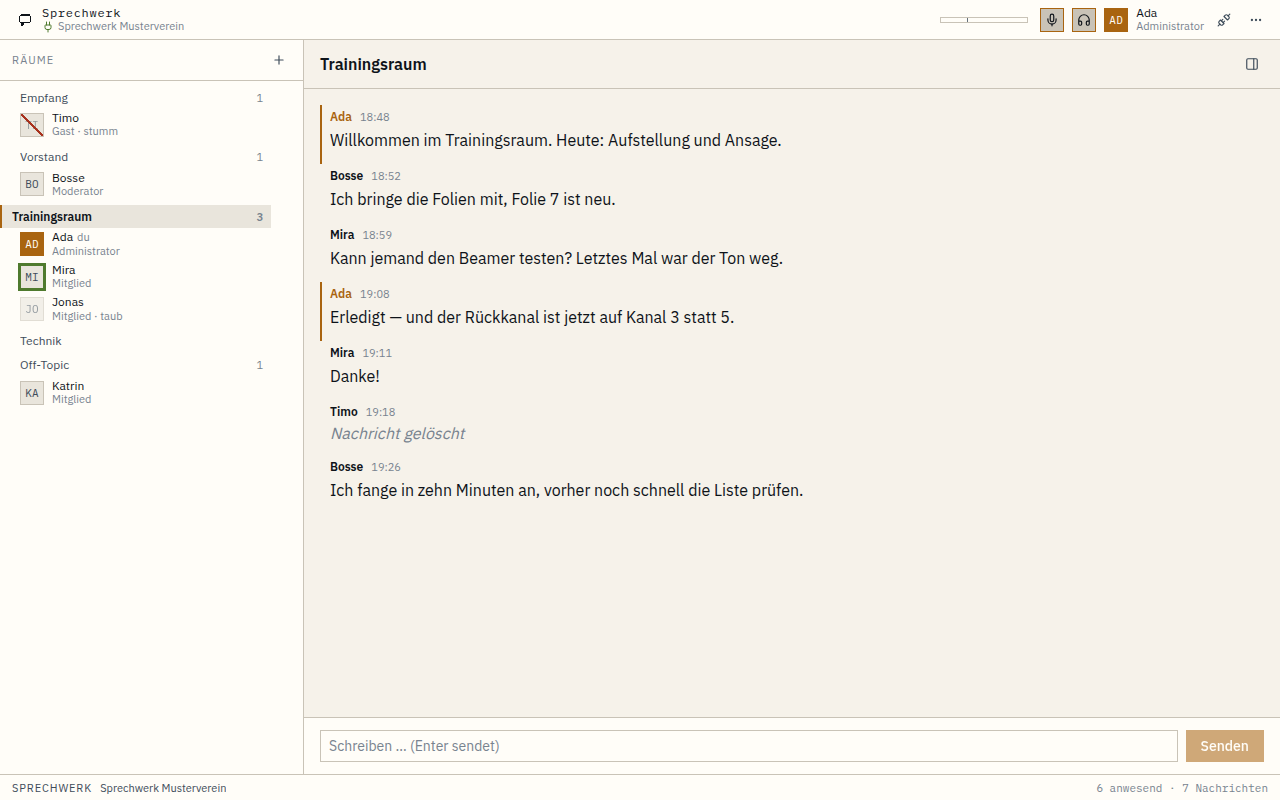
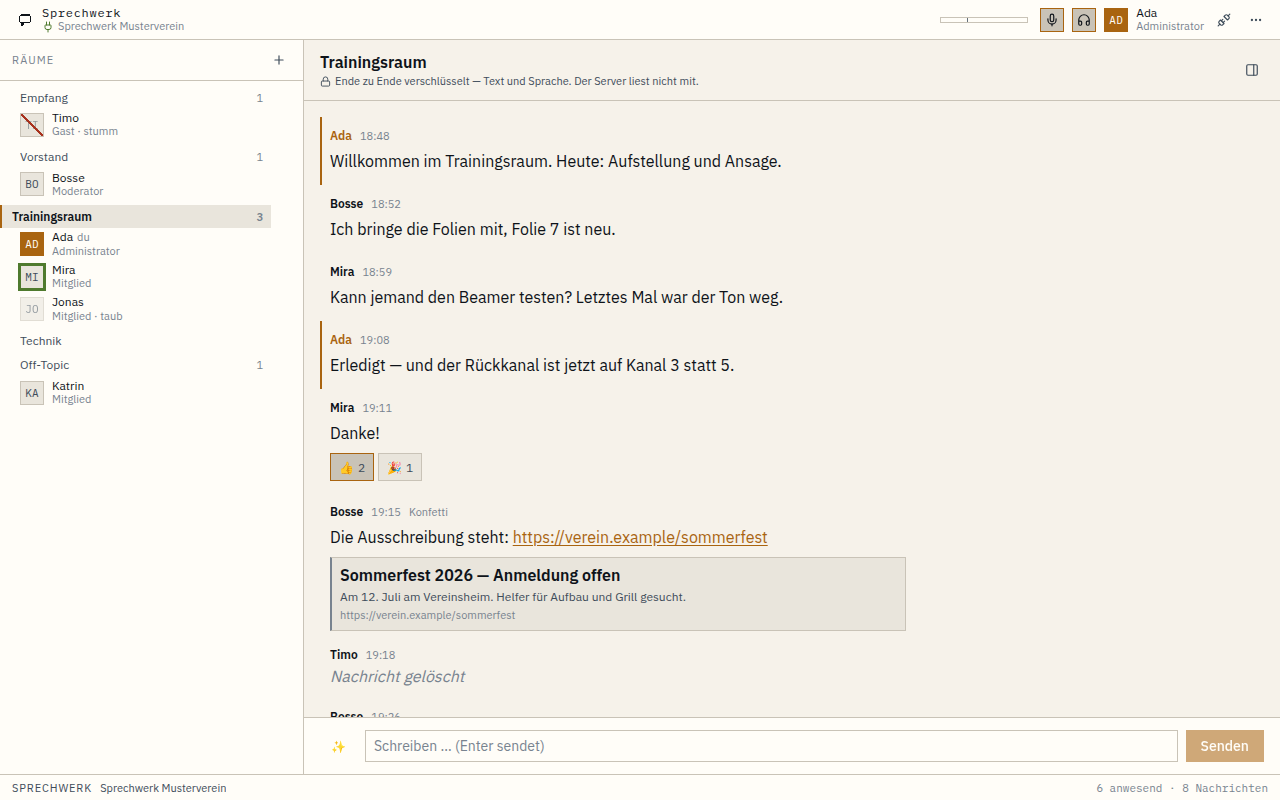
docs: ADR 0012 Stufe 2, SPEC und neue Bilder
Reaktionen, Effekte und Link-Vorschau sind beschrieben — samt Abweichung
von der ersten Planung (Felder am Text statt eigener Arten) und was der
Server weiterhin nicht sieht. Bilder für alle drei Themes neu erzeugt.

diff --git a/docs/adr/0012-alles-ende-zu-ende.md b/docs/adr/0012-alles-ende-zu-ende.md
@@ -1,15 +1,16 @@
 # ADR 0012 — Alles Ende zu Ende: Text, Sprache, Anhänge
 
-**Status:** Stufe 1 umgesetzt (2026-11-17), Stufen 2–3 geplant
+**Status:** Stufen 1 und 2 umgesetzt (2026-11-17), Stufe 3 geplant
 **Entscheidung (Nutzer, 2026-11-17):** „Das muss in sich geschlossen sein —
 wenig Sinn, die Sprache zu verschlüsseln, aber den Text nicht." Lesen dürfen
 **die Mitglieder des Servers**, nicht der Betreiber. Wer als Betreiber lesen
 will, verbindet sich mit dem Client — dann ist er Mitglied wie jeder andere.
 **Ändert:** SPEC §3 „Text bleibt serverseitig lesbar" (Nachtrag 2026-11-17),
 ADR 0006 „Nur Sprache" und „je Raum einschaltbar".
-**Betrifft:** `crates/protocol` (`geheimtext.rs`, neue Rahmen),
-`crates/adapters` (`serverschluessel.rs`), `crates/domain`, `crates/store`,
-`crates/server`, `crates/desktop`, `crates/cli`, `ui/`
+**Betrifft:** `crates/protocol` (`geheimtext.rs`, `inhalt.rs`, neue Rahmen),
+`crates/adapters` (`serverschluessel.rs`), `crates/linkvorschau` (neu, Stufe 2),
+`crates/domain`, `crates/store`, `crates/server`, `crates/ipc`,
+`crates/desktop`, `crates/cli`, `ui/`
 
 ## Was versprochen wird
 
@@ -97,15 +98,25 @@ Der Inhalt ist versioniertes JSON (`sprechwerk_protocol::inhalt::Inhalt`):
 
 | Art | Felder | Stufe |
 |---|---|---|
-| `text` | `text` | 1 |
+| `text` | `text`, optional `effekt`, optional `vorschau { url, titel, beschreibung, bild }` | 1, 2 |
 | `reaktion` | `ziel` (Nachricht), `zeichen`, `weg` | 2 |
-| `effekt` | `text`, `effekt` (z. B. Konfetti) | 2 |
-| `link` | `text`, `vorschau { url, titel, beschreibung, bild }` | 2 |
 | `anhang` | `text`, `dateien [{ id, name, typ, groesse, schluessel, pruefsumme, vorschau }]` | 3 |
 
 Eine neue Art braucht **keine** Protokolländerung — der Server sieht nur
 Geheimtext. Ein älterer Client zeigt eine unbekannte Art als „neuere Version
 nötig", statt sie falsch darzustellen.
+
+*Umgesetzt anders als zuerst geplant (Stufe 2):* Effekt und Vorschau sind
+**optionale Felder am Text**, keine eigenen Arten `effekt` und `link`. So kann
+eine Nachricht beides haben, und ein Client der Stufe 1 liest sie noch als Text
+(unbekannte Felder übergeht er) — er zeigt nur keinen Effekt und keine Karte.
+Ein unbekannter Effekt wird zu `unbekannt` und fällt weg; der Text bleibt.
+
+**Was ein Mitglied schickt, wird geprüft** (`ipc::abbilden::inhalt_abbilden`):
+ein Vorschau-Link muss `http(s)` sein, Titel und Beschreibung werden gekürzt,
+das Bild muss Base64 sein; eine Reaktion braucht eine gültige
+Nachrichtenkennung und ein kurzes Zeichen ohne Leerraum. Der Schlüssel sagt
+nur, dass ein Mitglied es geschickt hat — nicht, dass es harmlos ist.
 
 **Reaktionen** sind eigene Umschläge, die auf eine Nachricht zeigen; der Client
 fasst sie zusammen. Der Server kann sie nicht zählen — er weiß nicht, dass es
@@ -115,6 +126,33 @@ Reaktionen sind.
 Bild), packt die Vorschau in den Umschlag. Empfänger rufen nichts ab und
 verraten ihre Adresse keiner fremden Seite; der Server sieht nichts. Wie
 Signal. *Nutzerentscheidung 2026-11-17.*
+
+Umsetzung in `crates/linkvorschau` (eigenes Crate, damit der Server weder
+HTTP-Client noch Bilddecoder mitbaut):
+
+* Abruf mit `reqwest` (rustls, Anbieter `aws-lc-rs` wie quinn, Zertifikate des
+  Systems), 8 s Frist, höchstens 5 Weiterleitungen, höchstens 512 KiB HTML
+  (der Kopf steht vorn) und 8 MiB Bild; neutrale Kennung
+  `sprechwerk-linkvorschau`, keine Cookies.
+* Gelesen werden nur `<title>` und `<meta>` im Kopf (`og:*`, `twitter:*`,
+  `description`) — ein kleiner Leser statt eines HTML-Parsers.
+* Das Bild wird mit `image` dekodiert (Grenzen gegen Pixelbomben), auf
+  höchstens 480 px verkleinert, Durchsichtiges auf Weiß gesetzt und als JPEG
+  neu geschrieben (≤ 120 KiB): kein Originalbild, keine Metadaten.
+* Der Entwurf zeigt die Vorschau über dem Eingabefeld (`Zustand.entwurf`); sie
+  lässt sich wegklicken und geht nur mit, wenn ihr Link noch im Text steht.
+  Ein Link wird je Entwurf nur einmal abgerufen.
+* **Abschaltbar** (Einstellungen → Chat): dann wird nichts abgerufen, Links
+  bleiben anklickbar. Anklicken öffnet den **Browser des Systems**
+  (`tauri-plugin-opener`, aufgerufen aus Rust nach der Prüfung auf `http(s)`),
+  nie das Fenster selbst.
+
+**Effekte** (Konfetti, Herzen, Beben) spielen einmal, wenn eine Nachricht
+**neu ankommt** — nicht beim Laden des Verlaufs, nicht nach einem
+Raumwechsel. `Zustand.effekt { nachricht, effekt, nr }`: die Oberfläche spielt,
+wenn `nr` sich ändert; „noch einmal" zählt `nr` hoch. Mit
+`prefers-reduced-motion` spielt nichts, der Effekt steht nur als Wort am
+Beitrag.
 
 ### 3. Anhänge (Stufe 3)
 
@@ -178,4 +216,11 @@ Rechners lesbar).
 * Der Server kann nicht mehr nach Inhalt suchen, filtern oder Vorschauen bauen
   — Suche muss später im Client laufen.
 * Neues Mitglied allein online: wartet auf einen Halter (siehe oben).
+* Jede Reaktion ist eine eigene gespeicherte Nachricht (zählt zur Aufbewahrung
+  und zum Verlauf). Reaktionen auf Nachrichten außerhalb des geladenen
+  Verlaufs fallen still weg.
+* Link-Vorschau: die Seite sieht die Adresse des **Absenders**; ein Bild
+  macht den Umschlag bis zu ~160 KiB groß (Base64). Neue Abhängigkeiten im
+  Fenster: `reqwest`, `image`, `url`, `base64` (in `crates/linkvorschau`) und
+  `tauri-plugin-opener`.
 * Protokollversion 2: alte Clients verbinden sich nicht mehr.

diff --git a/README.md b/README.md
@@ -121,8 +121,8 @@ Lizenzbedingungen (Stand 2026) und können sich ändern.
 
 ## Stand heute
 
-Lauffähig und geprüft: **238 Tests** im Arbeitsbereich, **41** in der
-Fensteranwendung, **61** in der Oberfläche, dazu die Ansichten im echten
+Lauffähig und geprüft: **284 Tests** im Arbeitsbereich, **43** in der
+Fensteranwendung, **84** in der Oberfläche, dazu die Ansichten im echten
 Browser und sechs Messskripte, die einen echten Server starten.
 
 * **Sprache** — Aufnahme über PipeWire/PulseAudio, Hochpass, Entrauschung,
@@ -132,8 +132,11 @@ Browser und sechs Messskripte, die einen echten Server starten.
   Durchlauf durch den Server p99 **21–29 µs**, Beitritt p95 **1,8–2,8 ms**
   (`scripts/latenz.sh`, [`docs/QUALITAET.md`](docs/QUALITAET.md) §2d).
 * **Text** — Verlauf, Löschen (Verfasser weich, Moderator hart),
-  Aufbewahrungsfrist. Ende zu Ende verschlüsselt: in Datenbank und Sicherung
-  steht nur Geheimtext.
+  Aufbewahrungsfrist, Reaktionen, Effekte (Konfetti, Herzen, Beben),
+  anklickbare Links mit Vorschau. Ende zu Ende verschlüsselt: in Datenbank und
+  Sicherung steht nur Geheimtext — auch Reaktionen und Vorschauen. Die
+  Vorschau ruft der **Absender** ab, nie die Empfänger und nie der Server
+  (abschaltbar in den Einstellungen).
 * **Rollen und Rechte** — Administrator, Moderator, Mitglied, Gast; Prüfprotokoll
   für jede Änderung, Sperrliste mit Grund.
 * **Verschlüsselung** — TLS 1.3 über QUIC mit angeheftetem Zertifikat (TOFU),
@@ -145,8 +148,8 @@ Browser und sechs Messskripte, die einen echten Server starten.
   als Programm unter Windows, macOS und Linux. Dazu eine Verwaltung im Browser
   mit Protokoll, Mitgliedern und Rollen (nur auf dem Rechner des Servers).
 
-Noch nicht gebaut (bewusst): Dateien, Status/Abwesenheit, Video,
-Bildschirmfreigabe, Emojis/Reaktionen, Suche. Was als Nächstes kommt, steht in
+Noch nicht gebaut (bewusst): Dateien und Bilder im Chat (geplant, ADR 0012
+Stufe 3), GIF-Suche, Status/Abwesenheit, Video, Bildschirmfreigabe, Suche. Was als Nächstes kommt, steht in
 [`SPEC.md`](SPEC.md) §11 und [`docs/adr/0010-quantensicherheit.md`](docs/adr/0010-quantensicherheit.md)
 (Schritt 2: Raumschlüssel hybrid und mit Forward Secrecy).
 

diff --git a/docs/datenfluss.md b/docs/datenfluss.md
@@ -34,6 +34,43 @@ Oberfläche bekommt nur das Ergebnis (`inhalt`: Text, wartet, unlesbar, …).
 Fehlt der Schlüssel, bleibt eine Nachricht „wartet" und wird lesbar, sobald
 ein Mitglied ihn weitergegeben hat — ohne den Verlauf neu zu laden.
 
+### Reaktionen, Effekte, Link-Vorschau (ADR 0012, Stufe 2)
+
+Alles läuft **denselben** Weg wie Text — der Server sieht nur Geheimtext und
+weiß nicht, ob darin ein Text, eine Reaktion oder eine Vorschau steckt.
+
+```mermaid
+sequenceDiagram
+    participant UI as ui/ (Vue)
+    participant D as crates/desktop
+    participant L as crates/linkvorschau
+    participant W as fremde Seite
+    participant I as crates/ipc
+    participant S as Server
+
+    UI->>D: invoke("vorschau", { url }) (erster Link im Entwurf, 0,5 s Ruhe)
+    D->>D: Zustand.entwurf = laedt
+    D->>L: Holer::holen (eigene Aufgabe)
+    L->>W: GET (Seite, dann og:image)
+    L-->>D: Linkvorschau { titel, beschreibung, bild (JPEG, 480 px) }
+    D-->>UI: Zustand.entwurf = fertig → Karte über dem Eingabefeld
+    UI->>D: invoke("text_senden", { text, effekt })
+    D->>S: Inhalt::Text { text, effekt, vorschau } verschlüsselt
+    UI->>D: invoke("reagieren", { nachricht, zeichen })
+    D->>D: abbilden::meine_reaktion → setzen oder zurücknehmen
+    D->>S: Inhalt::Reaktion { ziel, zeichen, weg } verschlüsselt
+    S-->>D: ServerFrame::Text (Geheimtext, an alle im Raum)
+    D->>I: inhalt_abbilden (prüft Link, Längen, Bild) · reaktionen_zaehlen
+    D->>I: effekt_ausloesen (nur bei neu angekommenen Nachrichten)
+    D-->>UI: Zustand (nachrichten[].reaktionen, effekt { nr })
+```
+
+Nur der **Absender** ruft die Seite ab; Empfänger bekommen die fertige
+Vorschau im Umschlag und fragen keine fremde Seite an. Reaktionen sind eigene
+Umschläge, die der Client am Ziel zusammenfasst (`reaktionen_zaehlen`, rein,
+jedes Mal aus dem ganzen Verlauf). Ein Effekt spielt, wenn `effekt.nr` sich
+ändert — die Oberfläche braucht dafür keinen eigenen Zustand.
+
 Der Rückweg über das Ereignis ist **kein** Umweg: der Absender bekommt seine
 Nachricht vom Server zurück, damit die Zeit und die Reihenfolge stimmen, die der
 Server vergeben hat.

diff --git a/SPEC.md b/SPEC.md
@@ -89,7 +89,8 @@ Version steigt, Daten bleiben, Kopie liegt daneben.
 
 **[P] Drei Säulen: Sprache, Text, Rechte.** Alles andere ist „später", nicht
 „gestrichen": Dateien, Status/Abwesenheit, Bildschirm teilen, Video,
-Hintergrundeffekte, Emojis/Reaktionen, Suche.
+Hintergrundeffekte, Suche. *(Reaktionen, Effekte und Link-Vorschau: Nachtrag
+2026-11-17, ADR 0012 Stufe 2.)*
 
 **[A] Ende-zu-Ende je Raum:** Sprache kann je Raum Ende zu Ende verschlüsselt
 werden (ADR 0006, umgesetzt). Text bleibt serverseitig lesbar — die Zusage gilt
@@ -190,7 +191,15 @@ darf jede Nachricht löschen, hart, mit Protokolleintrag.
 **[A] Aufbewahrung:** standardmäßig unbegrenzt, im Container einstellbar
 (`retention_days`, 0 = unbegrenzt).
 **[A] Nachrichtenumfang:** reiner Text, Länge begrenzt (Standard 4 000
-Zeichen). Keine Formatierung, keine Anhänge, keine Reaktionen in Version 1.
+Zeichen). Keine Formatierung, keine Anhänge in Version 1.
+**[A] Nachtrag 2026-11-17 (ADR 0012, Stufe 2):** Reaktionen (feste Auswahl
+von sechs Zeichen, ein zweiter Klick nimmt zurück), Effekte (Konfetti, Herzen,
+Beben — spielen einmal beim Empfang, nicht beim Laden des Verlaufs, nicht bei
+`prefers-reduced-motion`), Links anklickbar (nur `http(s)`, öffnen im Browser
+des Systems), Link-Vorschau vom **Absender** abgerufen. *Preis:* die Seite
+sieht die Adresse des Absenders (abschaltbar); jede Reaktion ist eine eigene
+gespeicherte Nachricht; ein älterer Client zeigt Reaktionen als „neuere
+Version nötig", Effekt und Vorschau fehlen bei ihm einfach.
 
 ## 7. Technik
 
